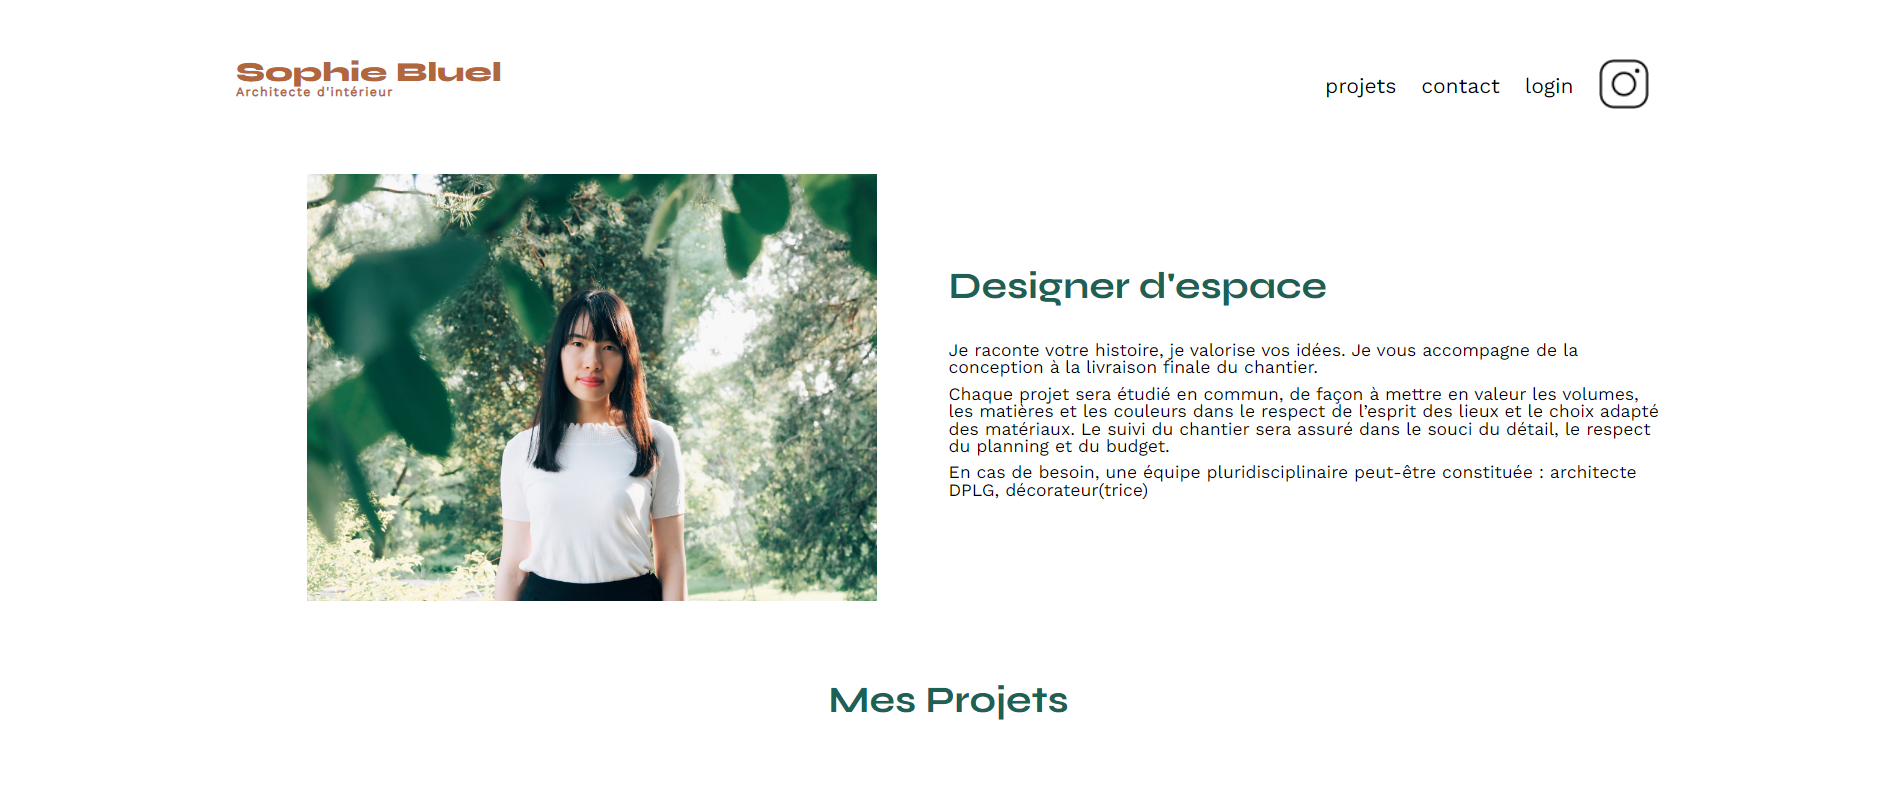
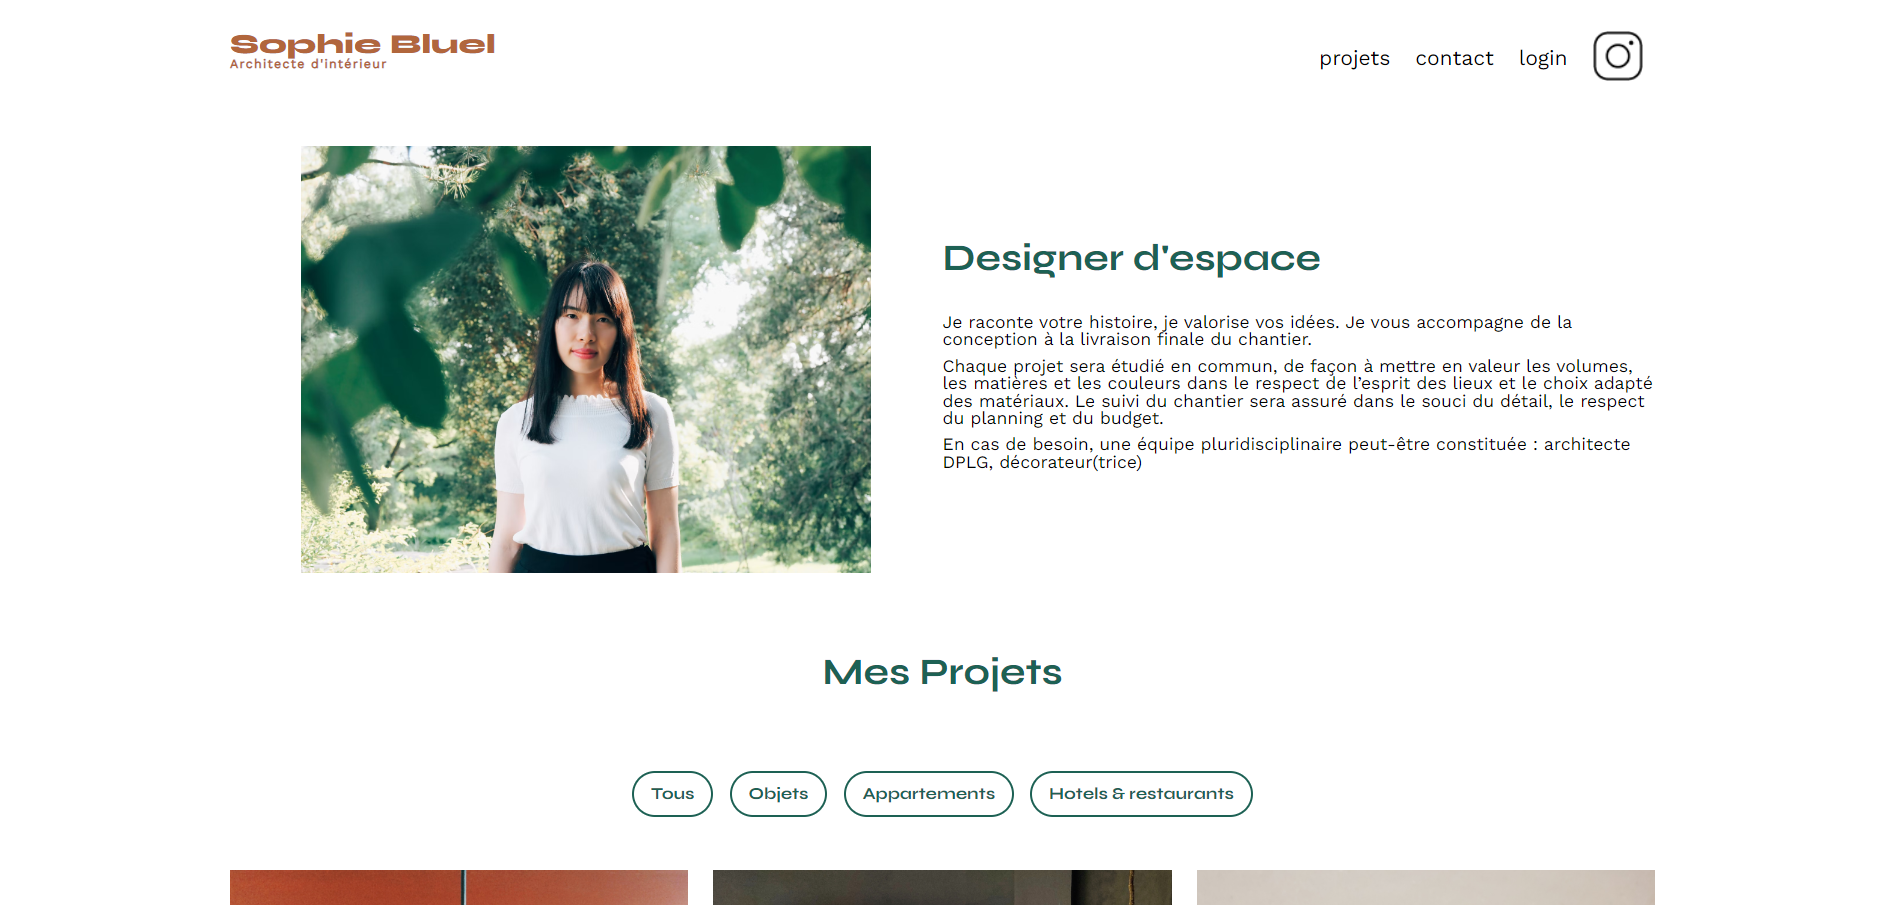
updated projects presentation

diff --git a/src/app/sections/projects.tsx b/src/app/sections/projects.tsx
@@ -27,7 +27,7 @@ export default function Projects() {
                         height={350}
                         quality={100}
                         alt={data.title}
-                        className="rounded-md opacity-90 object-fill w-80"
+                        className="rounded-md  object-fill w-80"
                       />
                     </div>
                     <svg
